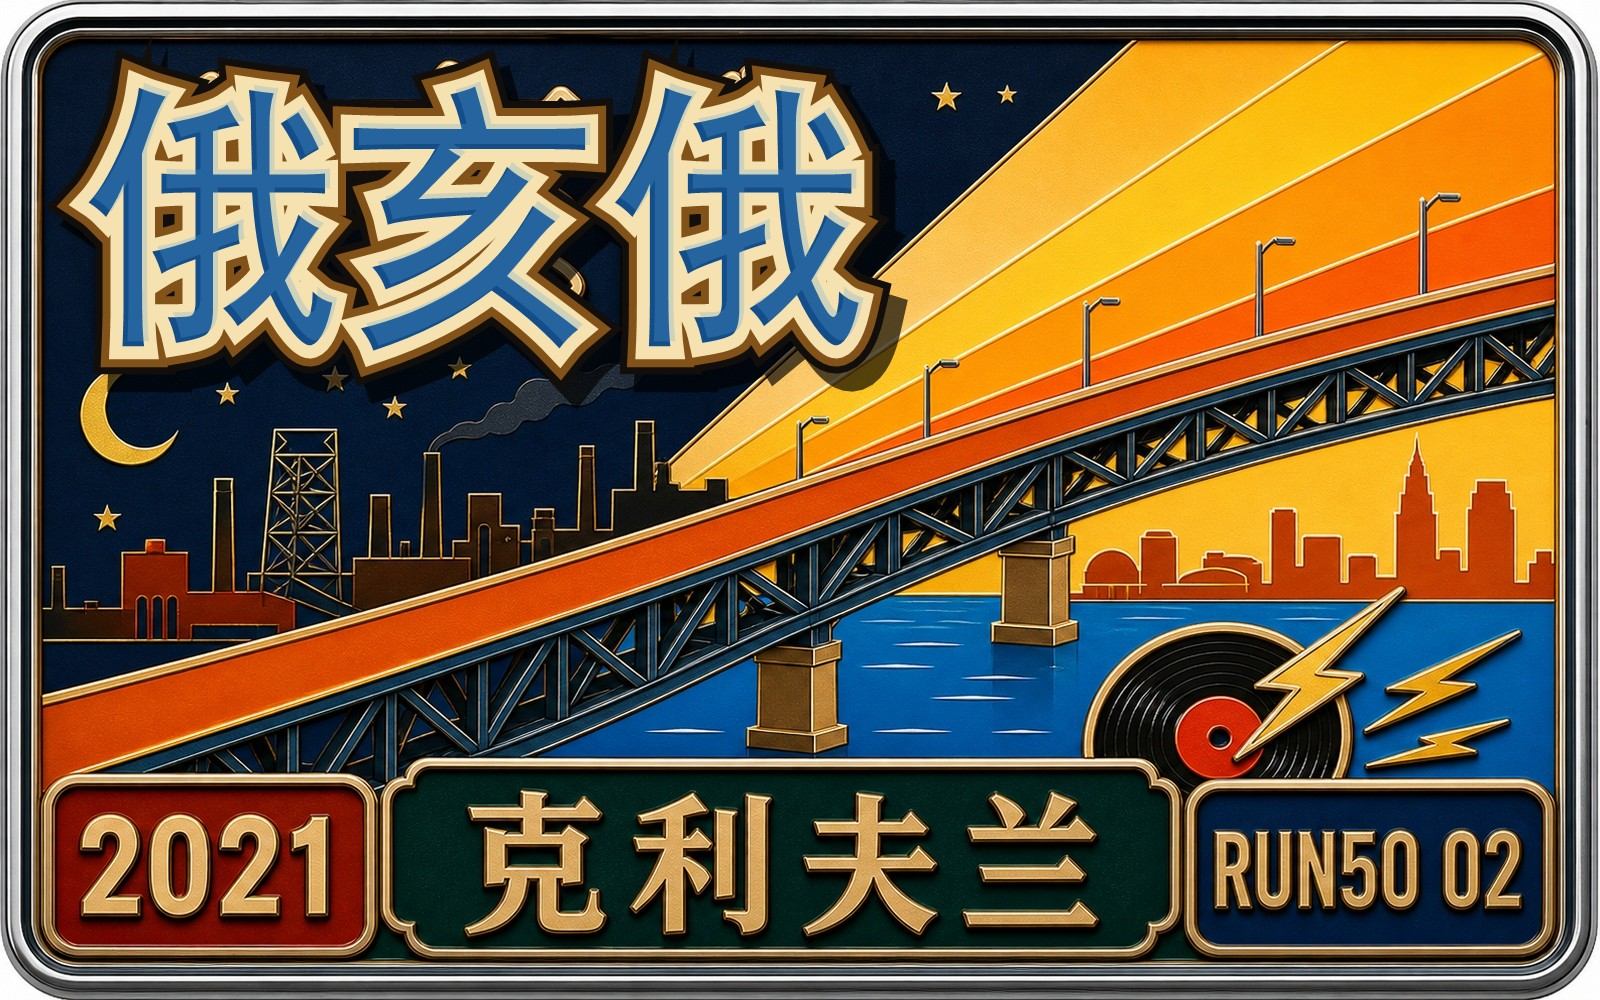
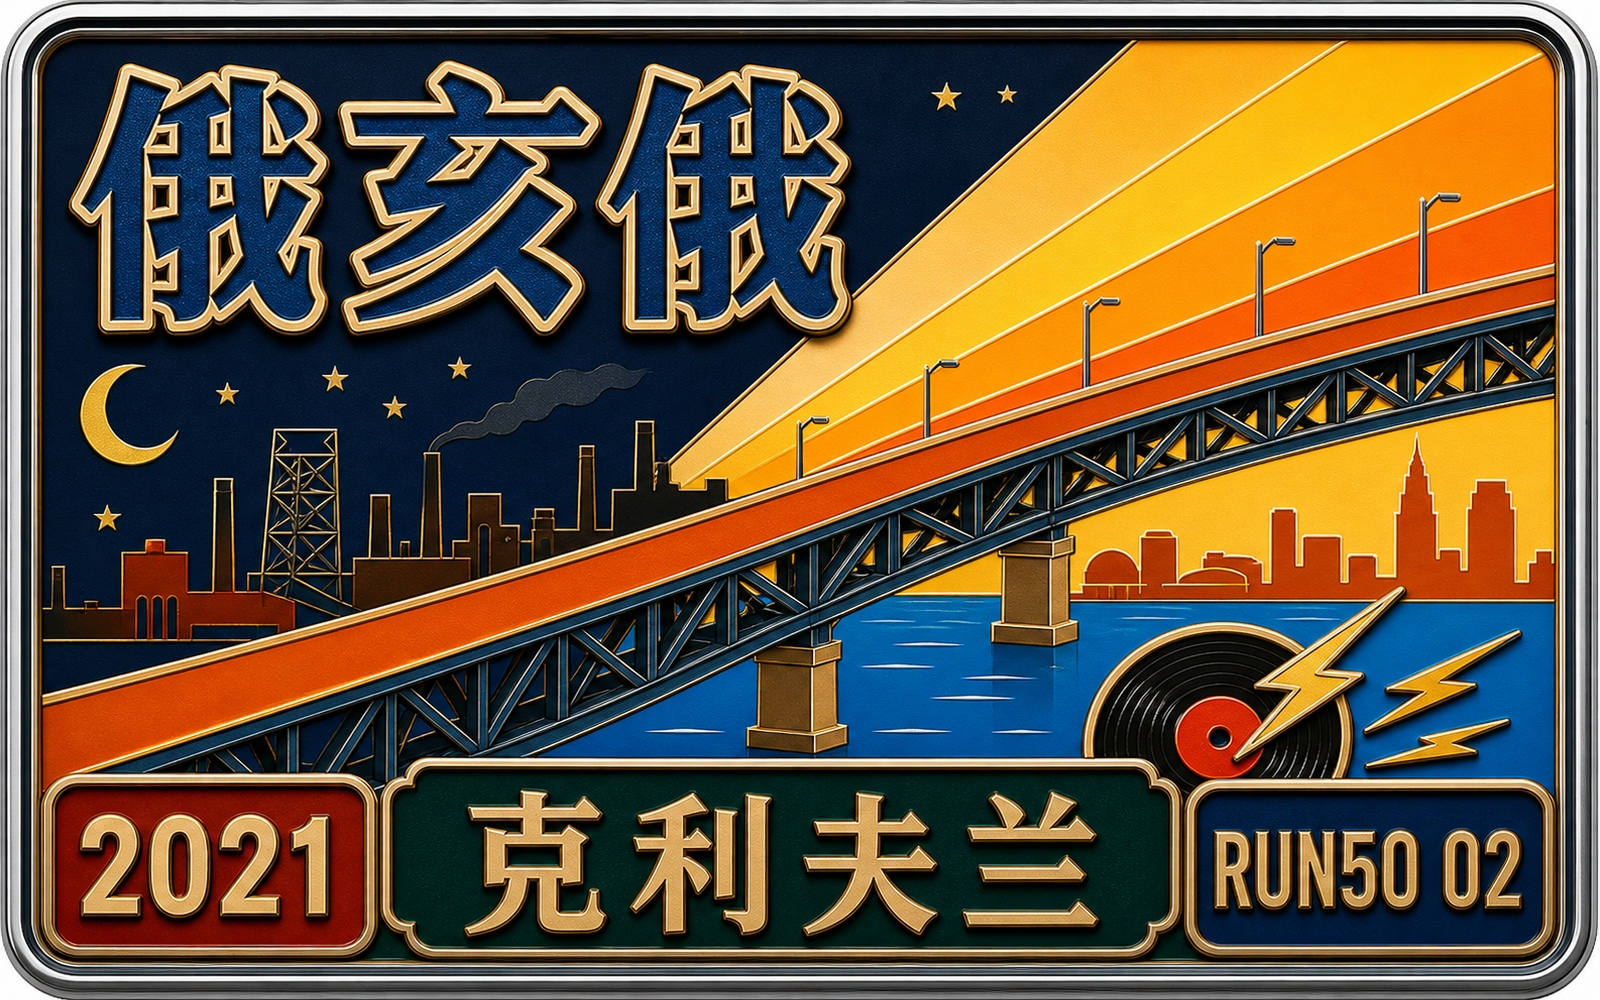
Add Chinese Run50 cover batch

Changed region(s): [[0.0312, 0.031, 0.5625, 0.403]]

diff --git a/run50/stories/chinese/index.html b/run50/stories/chinese/index.html
@@ -567,7 +567,7 @@
               </a>
 
         <a class="story-card run-50" href="./cleveland-marathon.html">
-                <img src="../../../assets/cover-medal-zh-index-cleveland-cn-flat.jpg?v=20260629-cn-flat-v2" alt="克利夫兰马拉松奖牌封面" loading="lazy" decoding="async">
+                <img src="../../../assets/cover-medal-zh-index-cleveland-cn-flat.jpg?v=20260629-cn-flat-v3" alt="克利夫兰马拉松奖牌封面" loading="lazy" decoding="async">
                 <div class="story-copy">
                   <p class="story-meta">俄亥俄克利夫兰 · 2021.10.24</p>
                   <h2 class="story-title">Run50 #第2州｜克利夫兰马拉松</h2>
@@ -587,7 +587,7 @@
               </a>
 
         <a class="story-card run-50" href="./san-francisco-marathon.html">
-                <img src="../../../assets/cover-medal-zh-san-francisco.jpg?v=20260617-medal-zh-varied" alt="旧金山马拉松奖牌封面" loading="lazy" decoding="async">
+                <img src="../../../assets/cover-medal-zh-index-san-francisco-cn-flat.jpg?v=20260629-cn-flat-v1" alt="旧金山马拉松奖牌封面" loading="lazy" decoding="async">
                 <div class="story-copy">
                   <p class="story-meta">加州旧金山 · 2022.07.24</p>
                   <h2 class="story-title">Run50 #第4州｜旧金山马拉松</h2>
@@ -597,7 +597,7 @@
               </a>
 
         <a class="story-card run-50" href="./indianapolis-monumental-marathon.html">
-                <img src="../../../assets/cover-medal-zh-indianapolis.jpg?v=20260617-medal-zh-varied" alt="印第安纳波利斯纪念碑马拉松奖牌封面" loading="lazy" decoding="async">
+                <img src="../../../assets/cover-medal-zh-index-indianapolis-cn-flat.jpg?v=20260629-cn-flat-v1" alt="印第安纳波利斯纪念碑马拉松奖牌封面" loading="lazy" decoding="async">
                 <div class="story-copy">
                   <p class="story-meta">印第安纳印第安纳波利斯 · 2022.11.05</p>
                   <h2 class="story-title">Run50 #第5州｜印第安纳波利斯纪念碑马拉松</h2>
@@ -617,7 +617,7 @@
               </a>
 
         <a class="story-card run-50" href="./atlanta-marathon.html">
-                <img src="../../../assets/cover-medal-zh-atlanta.jpg?v=20260617-medal-zh-varied" alt="亚特兰大马拉松奖牌封面" loading="lazy" decoding="async">
+                <img src="../../../assets/cover-medal-zh-index-atlanta-cn-flat.jpg?v=20260629-cn-flat-v1" alt="亚特兰大马拉松奖牌封面" loading="lazy" decoding="async">
                 <div class="story-copy">
                   <p class="story-meta">佐治亚亚特兰大 · 2023.02.26</p>
                   <h2 class="story-title">Run50 #第7州｜亚特兰大马拉松</h2>
@@ -647,7 +647,7 @@
               </a>
 
         <a class="story-card run-50" href="./denver-colfax-marathon.html">
-                <img src="../../../assets/cover-medal-zh-denver.jpg?v=20260617-medal-zh-varied" alt="丹佛 Colfax 马拉松奖牌封面" loading="lazy" decoding="async">
+                <img src="../../../assets/cover-medal-zh-index-denver-cn-flat.jpg?v=20260629-cn-flat-v1" alt="丹佛 Colfax 马拉松奖牌封面" loading="lazy" decoding="async">
                 <div class="story-copy">
                   <p class="story-meta">科罗拉多丹佛 · 2023.05.21</p>
                   <h2 class="story-title">Run50 #第8州｜丹佛 Colfax 马拉松</h2>
@@ -657,7 +657,7 @@
               </a>
 
         <a class="story-card run-50" href="./anchorage-marathon.html">
-                <img src="../../../assets/cover-medal-zh-anchorage.jpg?v=20260617-zh-v3" alt="安克雷奇马拉松奖牌封面" loading="lazy" decoding="async">
+                <img src="../../../assets/cover-medal-zh-index-anchorage-cn-flat.jpg?v=20260629-cn-flat-v1" alt="安克雷奇马拉松奖牌封面" loading="lazy" decoding="async">
                 <div class="story-copy">
                   <p class="story-meta">阿拉斯加安克雷奇 · 2023.06.17</p>
                   <h2 class="story-title">Run50 #第9州｜安克雷奇马拉松</h2>
@@ -667,7 +667,7 @@
               </a>
 
         <a class="story-card run-50" href="./st-joseph-marathon.html">
-                <img src="../../../assets/cover-medal-zh-st-joseph.jpg?v=20260617-zh-v3" alt="圣约瑟夫马拉松奖牌封面" loading="lazy" decoding="async">
+                <img src="../../../assets/cover-medal-zh-index-st-joseph-cn-flat.jpg?v=20260629-cn-flat-v1" alt="圣约瑟夫马拉松奖牌封面" loading="lazy" decoding="async">
                 <div class="story-copy">
                   <p class="story-meta">密苏里圣约瑟夫 · 2023.09.23</p>
                   <h2 class="story-title">Run50 #第10州｜圣约瑟夫马拉松</h2>
@@ -677,7 +677,7 @@
               </a>
 
         <a class="story-card run-50" href="./chicago-marathon.html">
-                <img src="../../../assets/cover-medal-il.jpg?v=20260616-medal-varied" alt="芝加哥马拉松奖牌封面" loading="lazy" decoding="async">
+                <img src="../../../assets/cover-medal-zh-index-chicago-cn-flat.jpg?v=20260629-cn-flat-v1" alt="芝加哥马拉松奖牌封面" loading="lazy" decoding="async">
                 <div class="story-copy">
                   <p class="story-meta">伊利诺伊芝加哥 · 2023.10.08</p>
                   <h2 class="story-title">Run50 #第11州｜芝加哥马拉松</h2>
@@ -690,7 +690,7 @@
               </a>
 
         <a class="story-card run-50" href="./nashville-marathon.html">
-                <img src="../../../assets/cover-medal-zh-nashville.jpg?v=20260617-zh-v3" alt="纳什维尔马拉松奖牌封面" loading="lazy" decoding="async">
+                <img src="../../../assets/cover-medal-zh-index-nashville-cn-flat.jpg?v=20260629-cn-flat-v1" alt="纳什维尔马拉松奖牌封面" loading="lazy" decoding="async">
                 <div class="story-copy">
                   <p class="story-meta">田纳西纳什维尔 · 2023.10.28</p>
                   <h2 class="story-title">Run50 #第12州｜纳什维尔马拉松</h2>
@@ -703,7 +703,7 @@
               </a>
 
         <a class="story-card run-50" href="./west-virginia-marathon.html">
-                <img src="../../../assets/cover-medal-zh-wv.jpg?v=20260617-zh-v3" alt="西弗吉尼亚马拉松奖牌封面" loading="lazy" decoding="async">
+                <img src="../../../assets/cover-medal-zh-index-west-virginia-cn-flat.jpg?v=20260629-cn-flat-v1" alt="西弗吉尼亚马拉松奖牌封面" loading="lazy" decoding="async">
                 <div class="story-copy">
                   <p class="story-meta">西弗吉尼亚亨廷顿 · 2023.11.05</p>
                   <h2 class="story-title">Run50 #第13州｜西弗吉尼亚马拉松</h2>
@@ -716,7 +716,7 @@
               </a>
 
         <a class="story-card run-50" href="./san-antonio-marathon.html">
-                <img src="../../../assets/cover-medal-tx.jpg?v=20260616-medal-varied" alt="圣安东尼奥马拉松奖牌封面" loading="lazy" decoding="async">
+                <img src="../../../assets/cover-medal-zh-index-san-antonio-cn-flat.jpg?v=20260629-cn-flat-v1" alt="圣安东尼奥马拉松奖牌封面" loading="lazy" decoding="async">
                 <div class="story-copy">
                   <p class="story-meta">德克萨斯圣安东尼奥 · 2023.12.03</p>
                   <h2 class="story-title">Run50 #第14州｜圣安东尼奥摇滚马拉松</h2>
@@ -729,7 +729,7 @@
               </a>
 
         <a class="story-card run-50" href="./disney-marathon.html">
-          <img src="../../../assets/cover-medal-disney-marathon.jpg?v=20260619-disney-2024" alt="Run50 #第15州｜佛罗里达：基韦斯特、奥兰多与迪士尼马拉松封面" loading="lazy" decoding="async">
+          <img src="../../../assets/cover-medal-zh-index-disney-cn-flat.jpg?v=20260629-cn-flat-v1" alt="Run50 #第15州｜佛罗里达：基韦斯特、奥兰多与迪士尼马拉松封面" loading="lazy" decoding="async">
           <div class="story-copy">
             <p class="story-meta">佛罗里达基韦斯特 / 奥兰多 · 2024.01.04</p>
             <h2 class="story-title">Run50 #第15州｜佛罗里达：基韦斯特、奥兰多与迪士尼马拉松</h2>
@@ -739,7 +739,7 @@
         </a>
 
         <a class="story-card run-50" href="./miami-marathon.html">
-                <img src="../../../assets/cover-medal-fl.jpg?v=20260616-medal-varied" alt="迈阿密马拉松奖牌封面" loading="lazy" decoding="async">
+                <img src="../../../assets/cover-medal-zh-index-miami-cn-flat.jpg?v=20260629-cn-flat-v1" alt="迈阿密马拉松奖牌封面" loading="lazy" decoding="async">
                 <div class="story-copy">
                   <p class="story-meta">佛罗里达迈阿密 · 2024.01.28</p>
                   <h2 class="story-title">Run50 #第15州｜迈阿密马拉松</h2>
@@ -752,7 +752,7 @@
               </a>
 
         <a class="story-card run-50" href="./north-carolina-oak-island-marathon.html">
-          <img src="../../../assets/cover-medal-north-carolina-oak-island-marathon.jpg?v=20260619-oak-runworld" alt="Run50 #第16州｜北卡罗莱纳：橡树岛马拉松封面" loading="lazy" decoding="async">
+          <img src="../../../assets/cover-medal-zh-index-oak-island-cn-flat.jpg?v=20260629-cn-flat-v1" alt="Run50 #第16州｜北卡罗莱纳：橡树岛马拉松封面" loading="lazy" decoding="async">
           <div class="story-copy">
             <p class="story-meta">北卡罗莱纳橡树岛 · 2024.02.18</p>
             <h2 class="story-title">Run50 #第16州｜北卡罗莱纳：橡树岛马拉松</h2>
@@ -762,7 +762,7 @@
         </a>
 
         <a class="story-card run-50" href="./little-rock-marathon.html">
-                <img src="../../../assets/cover-medal-zh-little-rock.jpg?v=20260617-zh-v3" alt="小石城马拉松奖牌封面" loading="lazy" decoding="async">
+                <img src="../../../assets/cover-medal-zh-index-little-rock-cn-flat.jpg?v=20260629-cn-flat-v1" alt="小石城马拉松奖牌封面" loading="lazy" decoding="async">
                 <div class="story-copy">
                   <p class="story-meta">阿肯色小石城 · 2024.03.03</p>
                   <h2 class="story-title">Run50 #第17州｜小石城马拉松</h2>
@@ -775,7 +775,7 @@
               </a>
 
         <a class="story-card run-50" href="./south-carolina-marathon.html">
-                <img src="../../../assets/cover-medal-sc.jpg?v=20260616-medal-varied" alt="南卡罗莱纳马拉松奖牌封面" loading="lazy" decoding="async">
+                <img src="../../../assets/cover-medal-zh-index-south-carolina-cn-flat.jpg?v=20260629-cn-flat-v1" alt="南卡罗莱纳马拉松奖牌封面" loading="lazy" decoding="async">
                 <div class="story-copy">
                   <p class="story-meta">南卡罗莱纳Greer · 2024.04.14</p>
                   <h2 class="story-title">Run50 #第18州｜南卡罗莱纳马拉松</h2>
